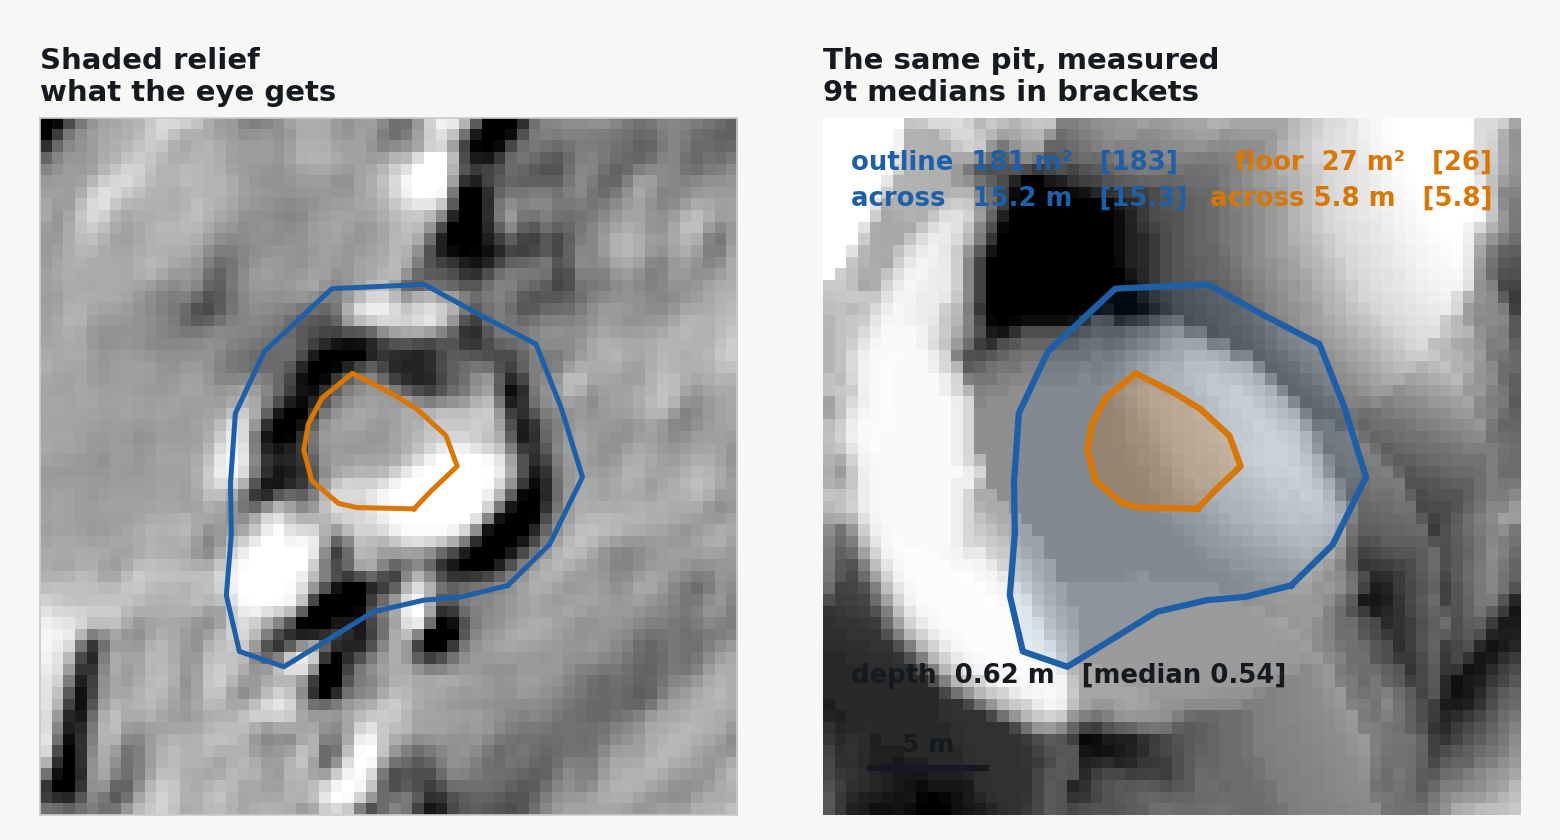
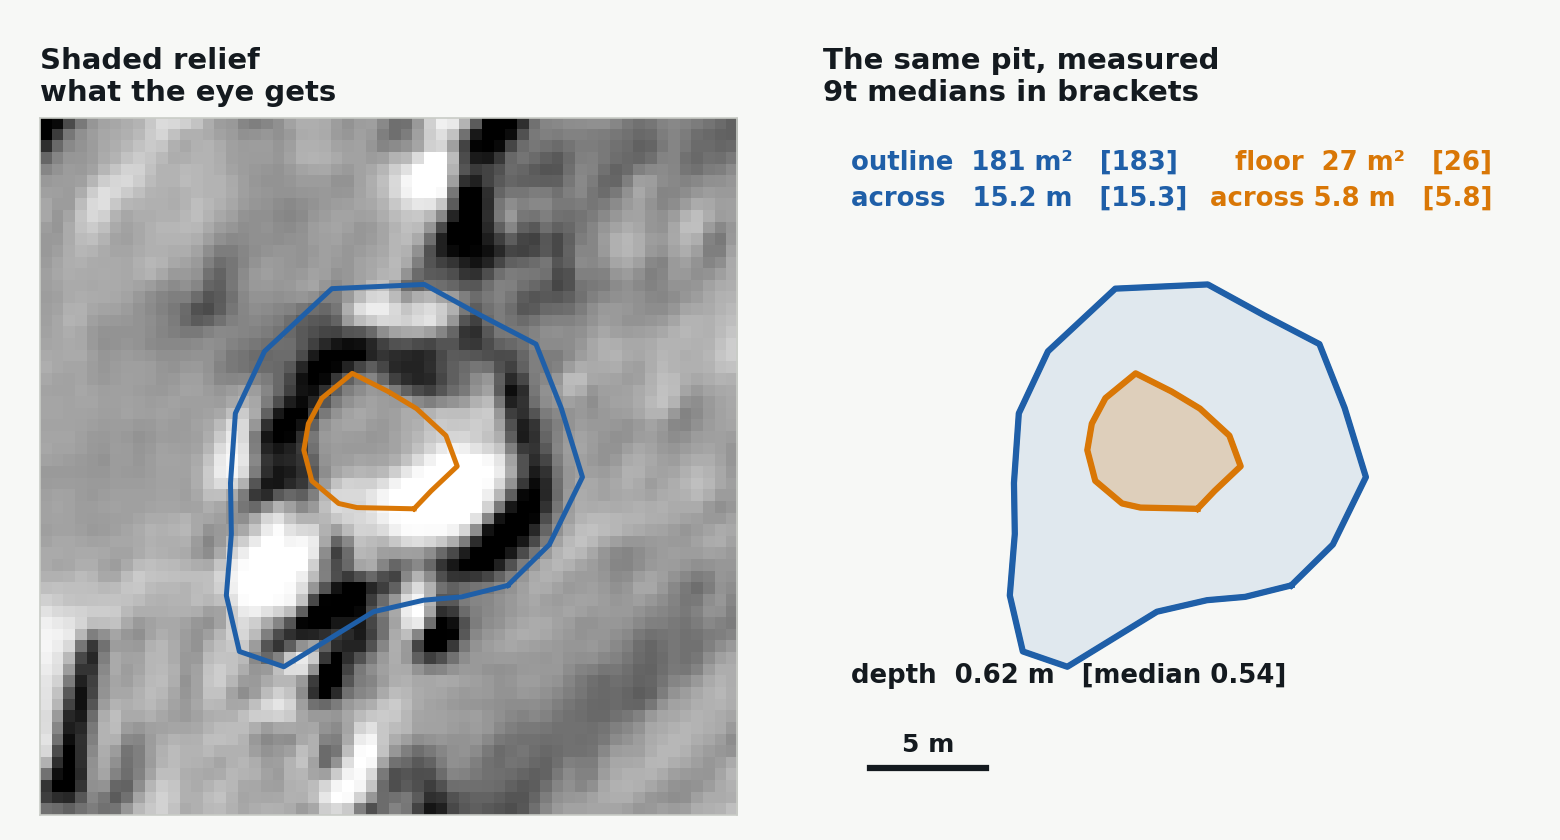
slide 46 keeps the right two panels, and the 613590 road slides get side text
The local-relief raster was still being drawn into the second axes after its
title was removed, so the dimensioned panel had terrain behind it. Removed
properly: shaded relief on the left, the shapes on nothing on the right.

Slides 70-72 get their captions back as slide text in the left column, which
is where they were asked for. Wording is the figures' own, from
_build_613590_outcomes.py, and the TIGER comparison was read off the original
image's caption band rather than recomputed, so the slide cannot drift from the
figure beside it.

Changed region(s): [[0.5231, 0.1238, 0.9846, 0.9905]]

diff --git a/docs/presentation/_build_v18_from_v15.py b/docs/presentation/_build_v18_from_v15.py
@@ -103,6 +103,7 @@ from _port_v17_user_edits import (  # noqa: E402
     V17_DELETED_SLIDES, V17_EDITS, V17_NOTE_APPENDS, V17_NOTE_REPLACE,
     V17_RETIRED_NOTES,
 )
+from _side_text_613590_roads import ROAD_SIDE_TEXT  # noqa: E402
 from _nisar_broad_statements import (  # noqa: E402
     NISAR_ANCHOR, NISAR_EDITS, NISAR_NEW_BULLETS, NISAR_NOTE, NISAR_TITLE,
 )
@@ -524,6 +525,41 @@ def main() -> int:
         a, b, wd, ht = swap_figure(hits[0], png, "contain")
         print(f"  {tl[:40]:42s} {a} -> {b}  "
               f"{wd/914400:.2f}x{ht/914400:.2f} in")
+
+    # ---- 2a4. side text for the three 613590 road slides ----------------
+    # The captions came off the top of those PNGs; they go back as slide text
+    # in the left column, which is where they belong.
+    from pptx.dml.color import RGBColor
+    from pptx.util import Pt
+    print()
+    for tl, (kicker, bullets) in ROAD_SIDE_TEXT.items():
+        hits = [s for s in slides if title_of(s).strip() == tl]
+        if len(hits) != 1:
+            raise SystemExit(f"expected one {tl!r}, found {len(hits)}")
+        box = next((sh for sh in hits[0].shapes
+                    if sh.has_text_frame
+                    and sh.text_frame.text.strip().startswith(tl)), None)
+        if box is None:
+            raise SystemExit(f"no title box on {tl!r}")
+        tf = box.text_frame
+        if kicker in tf.text:
+            print(f"  side text already there: {tl[:44]}")
+            continue
+        tf.word_wrap = True
+        for text, size, bold, colour, space in (
+                [("", 8, False, 0x54_5C_63, 0),
+                 (kicker, 16, True, 0x14_1A_1F, 10)]
+                + [(BULLET + b, 13, False, 0x54_5C_63, 8) for b in bullets]):
+            para = tf.add_paragraph()
+            para.space_after = Pt(space)
+            run = para.add_run()
+            run.text = text
+            run.font.size = Pt(size)
+            run.font.bold = bold
+            run.font.color.rgb = RGBColor(colour >> 16, (colour >> 8) & 255,
+                                          colour & 255)
+            run.font.name = "Calibri"
+        print(f"  side text +{len(bullets)} bullets: {tl[:44]}")
 
     # ---- 2b2. the block-split key on the outcome slides -----------------
     print()

diff --git a/docs/presentation/_side_text_613590_roads.py b/docs/presentation/_side_text_613590_roads.py
@@ -1,0 +1,39 @@
+# -*- coding: utf-8 -*-
+"""Side text for the three 613590 road slides. Imported by the builder.
+
+The captions used to be baked into the top of each PNG. They are back as slide
+text in the left column, which is where they were asked for: re-wrappable,
+readable at size, and not printing through the figure the way the road-network
+one did.
+
+Wording is the figures' own, from _build_613590_outcomes.py lines 196, 212 and
+246, so nothing is reworded on its way out of the image.
+"""
+from __future__ import annotations
+
+BULLET = "•  "
+
+#: title -> (kicker, [bullets])
+ROAD_SIDE_TEXT = {
+    "Second tile, 613590 – The Road Network It Drew": (
+        "A tile no road model ever trained on",
+        ["3,693 segments drawn, 231.4 km of road",
+         "Threshold 0.30",
+         "Faithful vectorisation — strip and trace, nothing invented"],
+    ),
+    "Second tile, 613590 – Generated Roads vs TIGER": (
+        "What the public road layer knows about",
+        # Read off the original figure's own caption band rather than
+        # recomputed, so the slide cannot drift from the image beside it.
+        ["Model 231.4 km against TIGER 40.0 km",
+         "5.8x more road than the public layer carries"],
+    ),
+    "Second tile, 613590 – Roads Found and Missed": (
+        "Scored on the hard half of the truth",
+        ["613590_added_r2 only, at threshold 0.50",
+         "1,162 of 1,496 chunks found — 0.777",
+         "The other 4,004 chunks are a previous model's output that a human "
+         "vetted. Every model scores 0.96+ on those, so they rank nothing and "
+         "are excluded."],
+    ),
+}

diff --git a/docs/presentation/figures_30to45min/_median_pit_plan_view_9t.py b/docs/presentation/figures_30to45min/_median_pit_plan_view_9t.py
@@ -190,14 +190,10 @@ def main() -> int:
     axes[0].set_title("Shaded relief\nwhat the eye gets", loc="left",
                       fontsize=14, fontweight="bold", color=INK, pad=8)
 
-    lr = read(LRM, b)
-    # A 98th-percentile symmetric stretch washed the dish out: one strong
-    # cell at the window edge set the range and everything else went white.
-    # Stretch on the window's own 3-97 percentile instead.
-    v0, v1 = np.nanpercentile(lr, (3, 97))
-    axes[1].imshow(lr, cmap="Greys_r", vmin=v0, vmax=v1, extent=ext)
-    axes[1].set_title("Local relief\nthe hillside subtracted", loc="left",
-                      fontsize=14, fontweight="bold", color=INK, pad=8)
+    # The local-relief panel that used to sit here is gone. Its raster was
+    # still being drawn into axes[1] after its title was removed, which put
+    # terrain behind the dimensioned panel; that panel is meant to be the
+    # shapes on nothing, so the numbers read.
 
     for ax in axes[:2]:
         draw_poly(ax, rim_g, OUTLINE, 2.4)
